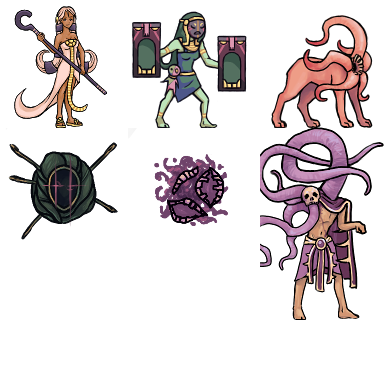
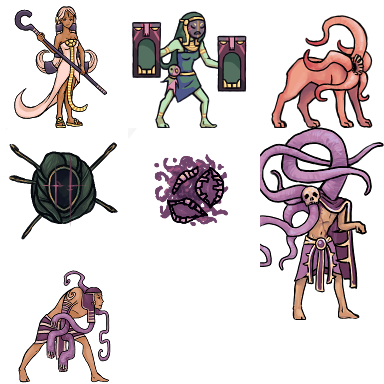
New enemy added

Changed region(s): [[0.0312, 0.6875, 0.3125, 1.0]]

diff --git a/src/ai.py b/src/ai.py
@@ -473,6 +473,112 @@ class AI_3(AI):
                 self.counter = 30
                 self.current_action = self.idle
 
+class AI_4(AI):
+    def __init__(self, world, entity_ID, event_manager):
+        """
+        :param world: game world contains entities
+        :type world: gameWorld.GameWorld
+        """
+        AI.__init__(self, world, entity_ID, event_manager)
+        #player too far away
+        self.aggresion_range = 480
+        #player too near
+        self.too_near_range = 120
+        #Set idle function for the AI
+        self.current_action = self.idle
+        self.walk_left()
+
+    def cruise(self, event):
+        """Function for simple enemy AI implements cruising logic.
+
+        Enemy is walking on the level.
+        
+        :param event: Occured event
+        :typy event: events.Event
+        """
+        #Check if walk direction should be inverted
+        if isinstance(event, events.CollisionOccured):
+            self_collider = self.world.collider[self.entity_ID]
+            if hasattr(event.collidee, 'tags'):
+                tags = event.collidee.tags
+                if tags and event.collider_ID == self.entity_ID:
+                    if "corner" in tags or "deadly" in tags:
+                        if self.walking_left() and self_collider.left < event.collidee.right:
+                            self.invert_walk_direction()
+                        elif self.walking_right() and self_collider.right > event.collidee.left:
+                            self.invert_walk_direction()
+            random_number = random_(300)
+            #Randomly go in idle state
+            if random_number == 0:
+                #Set duration of idle state
+                self.counter = 60
+                self.current_action = self.idle
+
+        elif isinstance(event, events.TickEvent):
+            #Check if enemy sees the player and if player is in range
+            players_position = self.world.collider[self.world.player].center
+            if self.sees_player(players_position) and self.point_in_radius(self.aggresion_range, players_position):
+                self.current_action = self.hunt
+
+    def idle(self, event):
+        """Idle, lasts ... frames long.
+
+        :param event: occured event
+        :type event: events.Event
+        """
+        if isinstance(event, events.TickEvent):
+            #Do not attack
+            #self.stop_attack()
+            self.stop_movement()
+            self.counter -= 1
+            if self.counter == 0:
+                self.counter = 60
+                #Start moving / cruising in an random direction
+                self.random_switch_movement(2)
+                self.current_action = self.cruise
+
+    def hunt(self, event):
+        """Attacks the player.
+
+        :param event: occured event
+        :type event: events.Event
+        """
+        if isinstance(event, events.TickEvent):
+            #Stop movement first
+            self.stop_movement()
+            #Get needed positions
+            players_position = self.world.collider[self.world.player].center
+            self_position = self.world.collider[self.entity_ID].center
+            #Change aim direction
+            direction = [players_position[0] - self_position[0],
+                         players_position[1] - (self_position[1]+32)]
+            direction = calculate_octant(direction)
+            if direction[0] == 0 and direction[1] == 0:
+                #Direction (0,0) is not valid
+                direction = (1, 0)
+            # Range to player:
+            too_near = self.point_in_radius(self.too_near_range, players_position)
+            #Check if state should be changed
+            #Enemy doesn't sees player or player is not in range
+            if self.point_in_radius(self.aggresion_range, players_position) and not too_near:
+                self_position = self.world.collider[self.entity_ID].center
+                #Change aim direction
+                direction = [players_position[0] - self_position[0],
+                             players_position[1] - self_position[1]]
+                direction = calculate_octant(direction)
+                if direction[0] == 0 and direction[1] == 0:
+                    #Direction (0,0) is not valid
+                    direction = (1, 0)
+                offset = 100
+                att_position = (players_position[0] + offset*direction[0], players_position[1] + offset*direction[1])
+                direction = (-direction[0], -direction[1])
+                self.attack(0, att_position, direction)
+
+            if not self.sees_player(self.world.collider[self.world.player].center) or not self.point_in_radius(self.aggresion_range, players_position):
+                #Set duration of idle state
+                self.counter = 30
+                self.current_action = self.cruise
+
 class AI_Boss_2(AI):
     """Handles simple AI.
     

diff --git a/src/gameworld.py b/src/gameworld.py
@@ -275,6 +275,14 @@ class GameWorld(object):
                     proj_height = 32
                     effect_ID = self.create_attack_effect('enemy_pink_2_effect.png',
                                                       200, 200, 6, 60)
+                elif ai_ID == "pink_3":
+                    proj_image = "pink_proj.png"
+                    proj_anim_list = [2, 2]
+                    proj_anim_time_list = [50, 13]
+                    proj_width = 32
+                    proj_height = 32
+                    effect_ID = self.create_attack_effect('tentakel2.png',
+                                                      200, 200, 8, 52)
                 elif ai_ID == "pink_boss":
                     proj_image = "pink_proj.png"
                     proj_anim_list = [2, 2]
@@ -583,6 +591,24 @@ class GameWorld(object):
             enemy_ID = self.create_entity(c)
             
             enemy_AI = ai.AI_3(self, enemy_ID, self.event_manager)
+            self.add_component_to_entity(enemy_ID, enemy_AI)
+            self.add_component_to_entity(enemy_ID, attack_list)
+        elif ai_ID == "pink_3":
+            #Enemy's hitbox, it is 50 pixel width and 96 pixel height
+            coll = components.Collider(position[0], position[1], 50, 96, tags)
+            vel = components.Velocity(0, 0, max_x_vel, max_y_vel)
+            #Create enemy's animations
+            temp = pygame.image.load(os.path.join('data', 'enemy_pink_3.png')).convert_alpha()
+            anim_list = [5, 10, 7, 8, 2, 1]
+            anim_time_list = [240, 60, 54, 120, 10, 10]
+            anim = components.Appearance(temp, 128, 128, anim_list, anim_time_list)
+            anim.rect.center = coll.center
+            direction = components.Direction([1, 0])
+            hp = components.Health(max_hp)
+            c = (coll, direction, vel, anim, hp)
+            enemy_ID = self.create_entity(c)
+            
+            enemy_AI = ai.AI_4(self, enemy_ID, self.event_manager)
             self.add_component_to_entity(enemy_ID, enemy_AI)
             self.add_component_to_entity(enemy_ID, attack_list)
         elif ai_ID == "pink_boss":

diff --git a/src/level.py b/src/level.py
@@ -17,7 +17,7 @@ class Level(object):
     """
 
     def __init__(self):
-        filename = self.get_map('test4.tmx')
+        filename = self.get_map('for_tests_only.tmx')
         #load data from pyTMX
         self.tmx_data = pytmx.load_pygame(filename, pixelalpha=True)
         #create new data source for pyScroll
